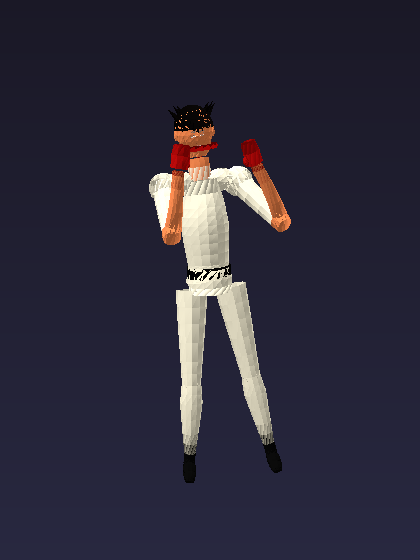
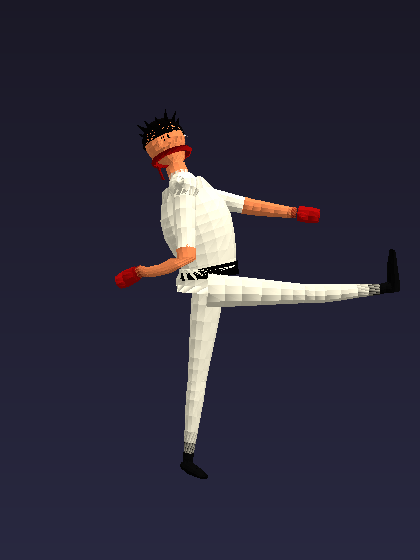
v0.15: patadas al estilo tilesheet 2D (extension plena, pivot, tijera de brazos)

Changed region(s): [[0.2786, 0.1821, 0.9595, 0.8804]]

diff --git a/src/render/rig.js b/src/render/rig.js
@@ -480,17 +480,38 @@ export class Rig {
     const w = e > 0 ? Math.min(0.95, e * 1.4) : 0;
     if (isKick) {
       const up = this.bones.RightUpLeg, leg = this.bones.RightLeg, foot = this.bones.RightFoot;
+      // Apaga el clip capturado: la patada la manda esta capa, al estilo de las
+      // láminas 2D (pierna extendida, apoyo pivotado, tronco atrás, brazos en tijera).
+      for (const n of ['Hips', 'LowerBack', 'Spine', 'Spine1',
+        'LeftUpLeg', 'RightUpLeg', 'LeftLeg', 'RightLeg', 'LeftFoot', 'RightFoot',
+        'LeftArm', 'RightArm', 'LeftForeArm', 'RightForeArm']) {
+        this.bones[n].quaternion.slerp(_qId, 0.85);
+      }
       if (e < 0) { this.bones.RightUpLeg.rotateX(this.kickSign * e * 1.4); return; }
-      // alcance = longitud real de la pierna: extensión plena a la altura del golpe
       const legLen = up.getWorldPosition(_aA).distanceTo(leg.getWorldPosition(_aB))
         + leg.getWorldPosition(_aB).distanceTo(foot.getWorldPosition(_aC));
-      _v1.set(0, hT, legLen * 0.95 * (0.4 + 0.6 * e));
+      // Pierna de pateo PLENA hacia la altura del golpe
+      _v1.set(0, hT, legLen * 0.99 * (0.35 + 0.65 * e));
       this.body.localToWorld(_v1);
-      _v2.set(0, hT * 0.75 + 0.15 * s, 0.65 * s);      // rodilla alta, extensión plena
+      _v2.set(0, hT * 1.0 + 0.15 * s, 0.6 * s);         // rodilla arriba-adelante
       this.body.localToWorld(_v2);
       this.aimChain(up, leg, foot, _v1, _v2, w);
       this.body.updateMatrixWorld(true);
-      this.bones.Spine.rotateX(this.kickSign * 0.25 * e);   // contra-inclinación atrás
+      // Apoyo: casi recto y pie pivotado (talón hacia el rival), como en 2D
+      this.bones.LeftUpLeg.rotateX(0.10 * e);
+      this.bones.LeftFoot.rotateY(-1.0 * e);
+      // Tronco atrás, nunca volcado adelante
+      this.bones.LowerBack.rotateX(this.kickSign * 0.18 * e);
+      this.bones.Spine.rotateX(this.kickSign * 0.22 * e);
+      // Brazos en tijera: contrario adelanta a la cara, homólogo atrás-abajo
+      _v1.set(0.12 * s, 1.30 * s, 0.55 * s); this.body.localToWorld(_v1);
+      _v2.set(0.20 * s, 1.10 * s, 0.10 * s); this.body.localToWorld(_v2);
+      this.aimChain(this.bones.LeftArm, this.bones.LeftForeArm, this.bones.LeftHand, _v1, _v2, 0.9);
+      this.body.updateMatrixWorld(true);
+      _v1.set(-0.18 * s, 1.05 * s, -0.35 * s); this.body.localToWorld(_v1);
+      _v2.set(-0.25 * s, 1.10 * s, -0.10 * s); this.body.localToWorld(_v2);
+      this.aimChain(this.bones.RightArm, this.bones.RightForeArm, this.bones.RightHand, _v1, _v2, 0.9);
+      this.body.updateMatrixWorld(true);
     } else {
       // El clip "strong" extiende el brazo derecho: el IK debe mandar ese
       // mismo brazo (y el jab, el izquierdo).

diff --git a/src/version.js b/src/version.js
@@ -4,8 +4,8 @@
  * (lo rellena con el commit HEAD y la fecha actuales) antes de cada entrega.
  */
 export const BUILD = {
-  tag: 'v0.14',
-  commit: '2b27c01',
+  tag: 'v0.15',
+  commit: '7b4e01c',
   date: '2026-09-23',
-  notes: 'Silueta suavizada (mas anillos), articulaciones sin bolas de muneca, relieve de valor en tela, iluminacion con hemisferio y rim'
+  notes: 'Patadas y golpes reconstruidos segun tilesheets 2D: pierna plena, apoyo pivotado, tronco atras, brazos en tijera'
 };
